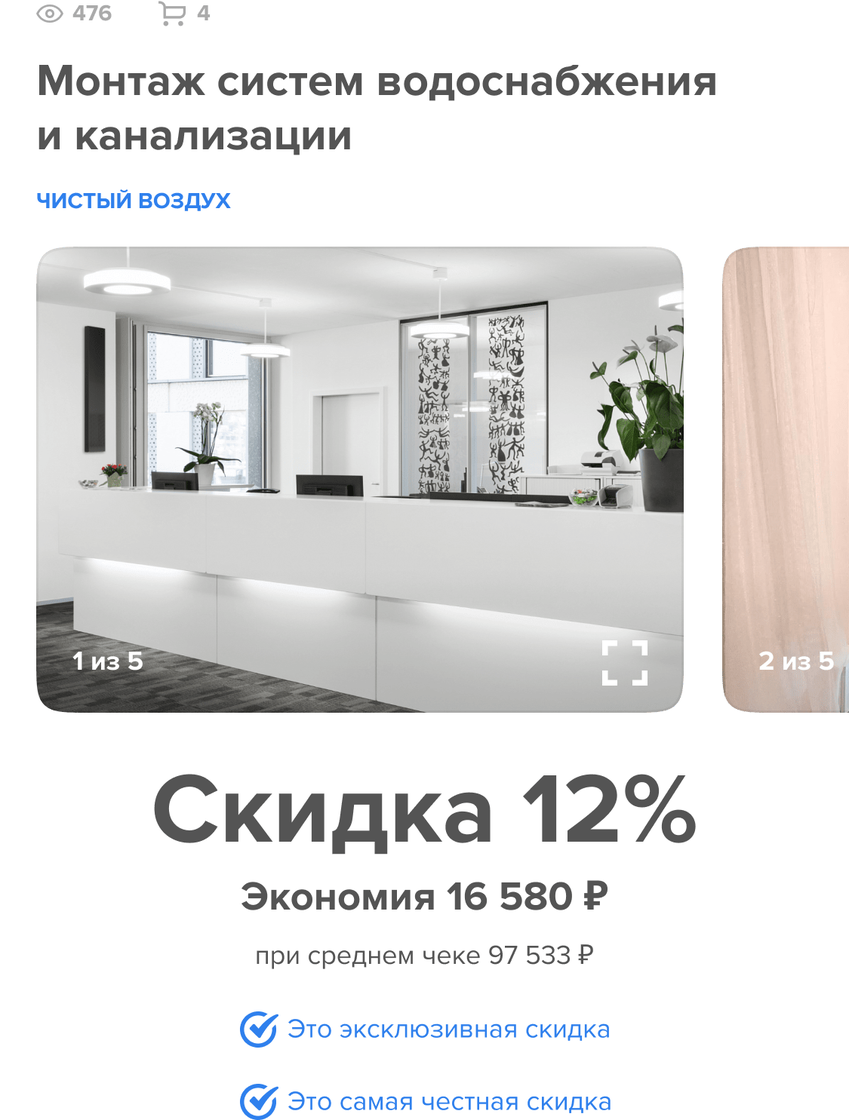
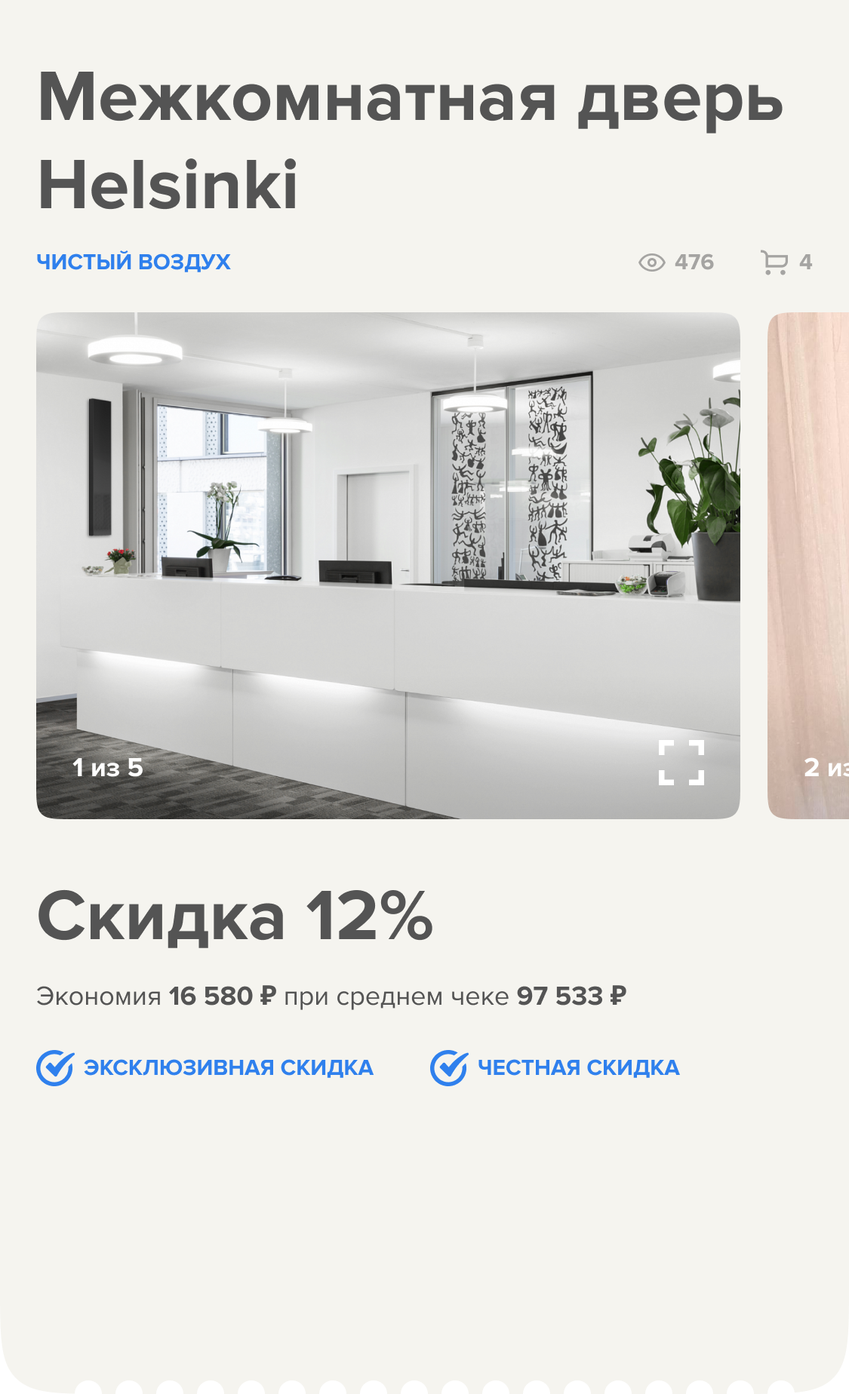
Изменил изображения

diff --git a/app/css/main.min.css b/app/css/main.min.css
@@ -1,1 +1,1 @@
-*,::after,::before{-webkit-box-sizing:border-box;box-sizing:border-box}html{font-family:sans-serif;line-height:1.15;-webkit-text-size-adjust:100%;-webkit-tap-highlight-color:transparent}article,aside,figcaption,figure,footer,header,hgroup,main,nav,section{display:block}body{margin:0;font-family:-apple-system,BlinkMacSystemFont,"Segoe UI",Roboto,"Helvetica Neue",Arial,"Noto Sans","Liberation Sans",sans-serif,"Apple Color Emoji","Segoe UI Emoji","Segoe UI Symbol","Noto Color Emoji";font-size:1rem;font-weight:400;line-height:1.5;color:#212529;text-align:left;background-color:#fff}[tabindex="-1"]:focus:not(:focus-visible){outline:0!important}hr{-webkit-box-sizing:content-box;box-sizing:content-box;height:0;overflow:visible}h1,h2,h3,h4,h5,h6{margin-top:0;margin-bottom:.5rem}p{margin-top:0;margin-bottom:1rem}abbr[data-original-title],abbr[title]{text-decoration:underline;-webkit-text-decoration:underline dotted;text-decoration:underline dotted;cursor:help;border-bottom:0;-webkit-text-decoration-skip-ink:none;text-decoration-skip-ink:none}address{margin-bottom:1rem;font-style:normal;line-height:inherit}dl,ol,ul{margin-top:0;margin-bottom:1rem}ol ol,ol ul,ul ol,ul ul{margin-bottom:0}dt{font-weight:700}dd{margin-bottom:.5rem;margin-left:0}blockquote{margin:0 0 1rem}b,strong{font-weight:bolder}small{font-size:80%}sub,sup{position:relative;font-size:75%;line-height:0;vertical-align:baseline}sub{bottom:-.25em}sup{top:-.5em}a{color:#007bff;text-decoration:none;background-color:transparent}a:hover{color:#0056b3;text-decoration:underline}a:not([href]):not([class]){color:inherit;text-decoration:none}a:not([href]):not([class]):hover{color:inherit;text-decoration:none}code,kbd,pre,samp{font-family:SFMono-Regular,Menlo,Monaco,Consolas,"Liberation Mono","Courier New",monospace;font-size:1em}pre{margin-top:0;margin-bottom:1rem;overflow:auto;-ms-overflow-style:scrollbar}figure{margin:0 0 1rem}img{vertical-align:middle;border-style:none}svg{overflow:hidden;vertical-align:middle}table{border-collapse:collapse}caption{padding-top:.75rem;padding-bottom:.75rem;color:#6c757d;text-align:left;caption-side:bottom}th{text-align:inherit;text-align:-webkit-match-parent}label{display:inline-block;margin-bottom:.5rem}button{border-radius:0}button:focus:not(:focus-visible){outline:0}button,input,optgroup,select,textarea{margin:0;font-family:inherit;font-size:inherit;line-height:inherit}button,input{overflow:visible}button,select{text-transform:none}[role=button]{cursor:pointer}select{word-wrap:normal}[type=button],[type=reset],[type=submit],button{-webkit-appearance:button}[type=button]:not(:disabled),[type=reset]:not(:disabled),[type=submit]:not(:disabled),button:not(:disabled){cursor:pointer}[type=button]::-moz-focus-inner,[type=reset]::-moz-focus-inner,[type=submit]::-moz-focus-inner,button::-moz-focus-inner{padding:0;border-style:none}input[type=checkbox],input[type=radio]{-webkit-box-sizing:border-box;box-sizing:border-box;padding:0}textarea{overflow:auto;resize:vertical}fieldset{min-width:0;padding:0;margin:0;border:0}legend{display:block;width:100%;max-width:100%;padding:0;margin-bottom:.5rem;font-size:1.5rem;line-height:inherit;color:inherit;white-space:normal}progress{vertical-align:baseline}[type=number]::-webkit-inner-spin-button,[type=number]::-webkit-outer-spin-button{height:auto}[type=search]{outline-offset:-2px;-webkit-appearance:none}[type=search]::-webkit-search-decoration{-webkit-appearance:none}::-webkit-file-upload-button{font:inherit;-webkit-appearance:button}output{display:inline-block}summary{display:list-item;cursor:pointer}template{display:none}[hidden]{display:none!important}@font-face{font-family:roboto-oh5;font-style:normal;font-weight:400;src:url(../fonts/roboto-regular-webfont.woff2) format("woff2")}@font-face{font-family:roboto-oh5;font-style:italic;font-weight:400;src:url(../fonts/roboto-italic-webfont.woff2) format("woff2")}@font-face{font-family:roboto-oh5;font-style:normal;font-weight:700;src:url(../fonts/roboto-bold-webfont.woff2) format("woff2")}@font-face{font-family:roboto-oh5;font-style:italic;font-weight:700;src:url(../fonts/roboto-bolditalic-webfont.woff2) format("woff2")}::-webkit-input-placeholder{color:#666}::-moz-placeholder{color:#666}:-ms-input-placeholder{color:#666}::-ms-input-placeholder{color:#666}::placeholder{color:#666}::-moz-selection{background-color:orange;color:#fff}::selection{background-color:orange;color:#fff}input,textarea{outline:0}input:focus:required:invalid,textarea:focus:required:invalid{border-color:red}input:required:valid,textarea:required:valid{border-color:green}body{font-family:roboto-oh5,sans-serif;font-size:16px;line-height:1.65;color:#333;min-width:320px;position:relative;overflow-x:hidden}body,html{padding:0;margin:0!important}body{width:375px;position:relative;overflow-x:hidden}.header{width:375px;height:52px;position:-webkit-sticky;position:sticky;top:0;left:0;background-size:contain;background-position:center;background-color:#393939;background-image:url(../images/header.png);background-repeat:no-repeat;-webkit-transition:-webkit-transform .3s ease;transition:-webkit-transform .3s ease;-o-transition:transform .3s ease;transition:transform .3s ease;transition:transform .3s ease,-webkit-transform .3s ease}.header.out{-webkit-transform:translateY(-100%);-ms-transform:translateY(-100%);transform:translateY(-100%)}.bg{margin-top:20px;width:375px;background-position:center;height:495px;background-repeat:no-repeat;background-size:contain;background-image:url(../images/bg.png)}.order{width:312px;height:68px;background-position:center;background-size:contain;background-repeat:no-repeat;margin:0 auto;margin-top:26px;background-image:url(../images/order.png)}.bottom-elem{background-image:url(../images/bottom-elem.png);width:375px;height:48px;cursor:pointer;background-size:contain;position:fixed;bottom:0;background-repeat:no-repeat;-webkit-transform:translateY(100%);-ms-transform:translateY(100%);transform:translateY(100%);-webkit-transition:-webkit-transform .3s ease;transition:-webkit-transform .3s ease;-o-transition:transform .3s ease;transition:transform .3s ease;transition:transform .3s ease,-webkit-transform .3s ease}.bottom-elem.show{-webkit-box-shadow:0 0 10px rgba(0,0,0,.2);box-shadow:0 0 10px rgba(0,0,0,.2);-webkit-transform:translateY(0);-ms-transform:translateY(0);transform:translateY(0)}.page{width:320px;height:1800px;margin:0 auto;margin-top:56px;background-image:url(../images/page.png)}
+*,::after,::before{-webkit-box-sizing:border-box;box-sizing:border-box}html{font-family:sans-serif;line-height:1.15;-webkit-text-size-adjust:100%;-webkit-tap-highlight-color:transparent}article,aside,figcaption,figure,footer,header,hgroup,main,nav,section{display:block}body{margin:0;font-family:-apple-system,BlinkMacSystemFont,"Segoe UI",Roboto,"Helvetica Neue",Arial,"Noto Sans","Liberation Sans",sans-serif,"Apple Color Emoji","Segoe UI Emoji","Segoe UI Symbol","Noto Color Emoji";font-size:1rem;font-weight:400;line-height:1.5;color:#212529;text-align:left;background-color:#fff}[tabindex="-1"]:focus:not(:focus-visible){outline:0!important}hr{-webkit-box-sizing:content-box;box-sizing:content-box;height:0;overflow:visible}h1,h2,h3,h4,h5,h6{margin-top:0;margin-bottom:.5rem}p{margin-top:0;margin-bottom:1rem}abbr[data-original-title],abbr[title]{text-decoration:underline;-webkit-text-decoration:underline dotted;text-decoration:underline dotted;cursor:help;border-bottom:0;-webkit-text-decoration-skip-ink:none;text-decoration-skip-ink:none}address{margin-bottom:1rem;font-style:normal;line-height:inherit}dl,ol,ul{margin-top:0;margin-bottom:1rem}ol ol,ol ul,ul ol,ul ul{margin-bottom:0}dt{font-weight:700}dd{margin-bottom:.5rem;margin-left:0}blockquote{margin:0 0 1rem}b,strong{font-weight:bolder}small{font-size:80%}sub,sup{position:relative;font-size:75%;line-height:0;vertical-align:baseline}sub{bottom:-.25em}sup{top:-.5em}a{color:#007bff;text-decoration:none;background-color:transparent}a:hover{color:#0056b3;text-decoration:underline}a:not([href]):not([class]){color:inherit;text-decoration:none}a:not([href]):not([class]):hover{color:inherit;text-decoration:none}code,kbd,pre,samp{font-family:SFMono-Regular,Menlo,Monaco,Consolas,"Liberation Mono","Courier New",monospace;font-size:1em}pre{margin-top:0;margin-bottom:1rem;overflow:auto;-ms-overflow-style:scrollbar}figure{margin:0 0 1rem}img{vertical-align:middle;border-style:none}svg{overflow:hidden;vertical-align:middle}table{border-collapse:collapse}caption{padding-top:.75rem;padding-bottom:.75rem;color:#6c757d;text-align:left;caption-side:bottom}th{text-align:inherit;text-align:-webkit-match-parent}label{display:inline-block;margin-bottom:.5rem}button{border-radius:0}button:focus:not(:focus-visible){outline:0}button,input,optgroup,select,textarea{margin:0;font-family:inherit;font-size:inherit;line-height:inherit}button,input{overflow:visible}button,select{text-transform:none}[role=button]{cursor:pointer}select{word-wrap:normal}[type=button],[type=reset],[type=submit],button{-webkit-appearance:button}[type=button]:not(:disabled),[type=reset]:not(:disabled),[type=submit]:not(:disabled),button:not(:disabled){cursor:pointer}[type=button]::-moz-focus-inner,[type=reset]::-moz-focus-inner,[type=submit]::-moz-focus-inner,button::-moz-focus-inner{padding:0;border-style:none}input[type=checkbox],input[type=radio]{-webkit-box-sizing:border-box;box-sizing:border-box;padding:0}textarea{overflow:auto;resize:vertical}fieldset{min-width:0;padding:0;margin:0;border:0}legend{display:block;width:100%;max-width:100%;padding:0;margin-bottom:.5rem;font-size:1.5rem;line-height:inherit;color:inherit;white-space:normal}progress{vertical-align:baseline}[type=number]::-webkit-inner-spin-button,[type=number]::-webkit-outer-spin-button{height:auto}[type=search]{outline-offset:-2px;-webkit-appearance:none}[type=search]::-webkit-search-decoration{-webkit-appearance:none}::-webkit-file-upload-button{font:inherit;-webkit-appearance:button}output{display:inline-block}summary{display:list-item;cursor:pointer}template{display:none}[hidden]{display:none!important}@font-face{font-family:roboto-oh5;font-style:normal;font-weight:400;src:url(../fonts/roboto-regular-webfont.woff2) format("woff2")}@font-face{font-family:roboto-oh5;font-style:italic;font-weight:400;src:url(../fonts/roboto-italic-webfont.woff2) format("woff2")}@font-face{font-family:roboto-oh5;font-style:normal;font-weight:700;src:url(../fonts/roboto-bold-webfont.woff2) format("woff2")}@font-face{font-family:roboto-oh5;font-style:italic;font-weight:700;src:url(../fonts/roboto-bolditalic-webfont.woff2) format("woff2")}::-webkit-input-placeholder{color:#666}::-moz-placeholder{color:#666}:-ms-input-placeholder{color:#666}::-ms-input-placeholder{color:#666}::placeholder{color:#666}::-moz-selection{background-color:orange;color:#fff}::selection{background-color:orange;color:#fff}input,textarea{outline:0}input:focus:required:invalid,textarea:focus:required:invalid{border-color:red}input:required:valid,textarea:required:valid{border-color:green}body{font-family:roboto-oh5,sans-serif;font-size:16px;line-height:1.65;color:#333;min-width:320px;position:relative;overflow-x:hidden}body,html{padding:0;margin:0!important}body{width:375px;position:relative;overflow-x:hidden}.header{width:375px;height:52px;position:-webkit-sticky;position:sticky;top:0;z-index:10;left:0;background-size:contain;background-position:center;background-color:#393939;background-image:url(../images/header.png);background-repeat:no-repeat;-webkit-transition:-webkit-transform .3s ease;transition:-webkit-transform .3s ease;-o-transition:transform .3s ease;transition:transform .3s ease;transition:transform .3s ease,-webkit-transform .3s ease}.header.out{-webkit-transform:translateY(-100%);-ms-transform:translateY(-100%);transform:translateY(-100%)}.bg{width:375px;background-position:center;height:616px;background-repeat:no-repeat;background-size:contain;background-image:url(../images/bg.png)}.order{width:375px;height:56px;background-position:center;background-size:contain;position:absolute;top:564px;background-repeat:no-repeat;margin:0 auto;background-image:url(../images/order.png)}.bottom-elem{background-image:url(../images/bottom-elem.png);width:375px;height:144px;cursor:pointer;background-size:contain;position:fixed;z-index:10;bottom:0;background-repeat:no-repeat;-webkit-transform:translateY(100%);-ms-transform:translateY(100%);transform:translateY(100%);-webkit-transition:-webkit-transform .3s ease;transition:-webkit-transform .3s ease;-o-transition:transform .3s ease;transition:transform .3s ease;transition:transform .3s ease,-webkit-transform .3s ease}.bottom-elem.show{-webkit-box-shadow:0 0 10px rgba(0,0,0,.2);box-shadow:0 0 10px rgba(0,0,0,.2);-webkit-transform:translateY(0);-ms-transform:translateY(0);transform:translateY(0)}.page{width:343px;height:1550px;margin:0 auto;margin-top:32px;background-image:url(../images/page.png)}

diff --git a/dist/css/main.min.css b/dist/css/main.min.css
@@ -1,1 +1,1 @@
-*,::after,::before{-webkit-box-sizing:border-box;box-sizing:border-box}html{font-family:sans-serif;line-height:1.15;-webkit-text-size-adjust:100%;-webkit-tap-highlight-color:transparent}article,aside,figcaption,figure,footer,header,hgroup,main,nav,section{display:block}body{margin:0;font-family:-apple-system,BlinkMacSystemFont,"Segoe UI",Roboto,"Helvetica Neue",Arial,"Noto Sans","Liberation Sans",sans-serif,"Apple Color Emoji","Segoe UI Emoji","Segoe UI Symbol","Noto Color Emoji";font-size:1rem;font-weight:400;line-height:1.5;color:#212529;text-align:left;background-color:#fff}[tabindex="-1"]:focus:not(:focus-visible){outline:0!important}hr{-webkit-box-sizing:content-box;box-sizing:content-box;height:0;overflow:visible}h1,h2,h3,h4,h5,h6{margin-top:0;margin-bottom:.5rem}p{margin-top:0;margin-bottom:1rem}abbr[data-original-title],abbr[title]{text-decoration:underline;-webkit-text-decoration:underline dotted;text-decoration:underline dotted;cursor:help;border-bottom:0;-webkit-text-decoration-skip-ink:none;text-decoration-skip-ink:none}address{margin-bottom:1rem;font-style:normal;line-height:inherit}dl,ol,ul{margin-top:0;margin-bottom:1rem}ol ol,ol ul,ul ol,ul ul{margin-bottom:0}dt{font-weight:700}dd{margin-bottom:.5rem;margin-left:0}blockquote{margin:0 0 1rem}b,strong{font-weight:bolder}small{font-size:80%}sub,sup{position:relative;font-size:75%;line-height:0;vertical-align:baseline}sub{bottom:-.25em}sup{top:-.5em}a{color:#007bff;text-decoration:none;background-color:transparent}a:hover{color:#0056b3;text-decoration:underline}a:not([href]):not([class]){color:inherit;text-decoration:none}a:not([href]):not([class]):hover{color:inherit;text-decoration:none}code,kbd,pre,samp{font-family:SFMono-Regular,Menlo,Monaco,Consolas,"Liberation Mono","Courier New",monospace;font-size:1em}pre{margin-top:0;margin-bottom:1rem;overflow:auto;-ms-overflow-style:scrollbar}figure{margin:0 0 1rem}img{vertical-align:middle;border-style:none}svg{overflow:hidden;vertical-align:middle}table{border-collapse:collapse}caption{padding-top:.75rem;padding-bottom:.75rem;color:#6c757d;text-align:left;caption-side:bottom}th{text-align:inherit;text-align:-webkit-match-parent}label{display:inline-block;margin-bottom:.5rem}button{border-radius:0}button:focus:not(:focus-visible){outline:0}button,input,optgroup,select,textarea{margin:0;font-family:inherit;font-size:inherit;line-height:inherit}button,input{overflow:visible}button,select{text-transform:none}[role=button]{cursor:pointer}select{word-wrap:normal}[type=button],[type=reset],[type=submit],button{-webkit-appearance:button}[type=button]:not(:disabled),[type=reset]:not(:disabled),[type=submit]:not(:disabled),button:not(:disabled){cursor:pointer}[type=button]::-moz-focus-inner,[type=reset]::-moz-focus-inner,[type=submit]::-moz-focus-inner,button::-moz-focus-inner{padding:0;border-style:none}input[type=checkbox],input[type=radio]{-webkit-box-sizing:border-box;box-sizing:border-box;padding:0}textarea{overflow:auto;resize:vertical}fieldset{min-width:0;padding:0;margin:0;border:0}legend{display:block;width:100%;max-width:100%;padding:0;margin-bottom:.5rem;font-size:1.5rem;line-height:inherit;color:inherit;white-space:normal}progress{vertical-align:baseline}[type=number]::-webkit-inner-spin-button,[type=number]::-webkit-outer-spin-button{height:auto}[type=search]{outline-offset:-2px;-webkit-appearance:none}[type=search]::-webkit-search-decoration{-webkit-appearance:none}::-webkit-file-upload-button{font:inherit;-webkit-appearance:button}output{display:inline-block}summary{display:list-item;cursor:pointer}template{display:none}[hidden]{display:none!important}@font-face{font-family:roboto-oh5;font-style:normal;font-weight:400;src:url(../fonts/roboto-regular-webfont.woff2) format("woff2")}@font-face{font-family:roboto-oh5;font-style:italic;font-weight:400;src:url(../fonts/roboto-italic-webfont.woff2) format("woff2")}@font-face{font-family:roboto-oh5;font-style:normal;font-weight:700;src:url(../fonts/roboto-bold-webfont.woff2) format("woff2")}@font-face{font-family:roboto-oh5;font-style:italic;font-weight:700;src:url(../fonts/roboto-bolditalic-webfont.woff2) format("woff2")}::-webkit-input-placeholder{color:#666}::-moz-placeholder{color:#666}:-ms-input-placeholder{color:#666}::-ms-input-placeholder{color:#666}::placeholder{color:#666}::-moz-selection{background-color:orange;color:#fff}::selection{background-color:orange;color:#fff}input,textarea{outline:0}input:focus:required:invalid,textarea:focus:required:invalid{border-color:red}input:required:valid,textarea:required:valid{border-color:green}body{font-family:roboto-oh5,sans-serif;font-size:16px;line-height:1.65;color:#333;min-width:320px;position:relative;overflow-x:hidden}body,html{padding:0;margin:0!important}body{width:375px;position:relative;overflow-x:hidden}.header{width:375px;height:52px;position:-webkit-sticky;position:sticky;top:0;left:0;background-size:contain;background-position:center;background-color:#393939;background-image:url(../images/header.png);background-repeat:no-repeat;-webkit-transition:-webkit-transform .3s ease;transition:-webkit-transform .3s ease;-o-transition:transform .3s ease;transition:transform .3s ease;transition:transform .3s ease,-webkit-transform .3s ease}.header.out{-webkit-transform:translateY(-100%);-ms-transform:translateY(-100%);transform:translateY(-100%)}.bg{margin-top:20px;width:375px;background-position:center;height:495px;background-repeat:no-repeat;background-size:contain;background-image:url(../images/bg.png)}.order{width:312px;height:68px;background-position:center;background-size:contain;background-repeat:no-repeat;margin:0 auto;margin-top:26px;background-image:url(../images/order.png)}.bottom-elem{background-image:url(../images/bottom-elem.png);width:375px;height:48px;cursor:pointer;background-size:contain;position:fixed;bottom:0;background-repeat:no-repeat;-webkit-transform:translateY(100%);-ms-transform:translateY(100%);transform:translateY(100%);-webkit-transition:-webkit-transform .3s ease;transition:-webkit-transform .3s ease;-o-transition:transform .3s ease;transition:transform .3s ease;transition:transform .3s ease,-webkit-transform .3s ease}.bottom-elem.show{-webkit-box-shadow:0 0 10px rgba(0,0,0,.2);box-shadow:0 0 10px rgba(0,0,0,.2);-webkit-transform:translateY(0);-ms-transform:translateY(0);transform:translateY(0)}.page{width:320px;height:1800px;margin:0 auto;margin-top:56px;background-image:url(../images/page.png)}
+*,::after,::before{-webkit-box-sizing:border-box;box-sizing:border-box}html{font-family:sans-serif;line-height:1.15;-webkit-text-size-adjust:100%;-webkit-tap-highlight-color:transparent}article,aside,figcaption,figure,footer,header,hgroup,main,nav,section{display:block}body{margin:0;font-family:-apple-system,BlinkMacSystemFont,"Segoe UI",Roboto,"Helvetica Neue",Arial,"Noto Sans","Liberation Sans",sans-serif,"Apple Color Emoji","Segoe UI Emoji","Segoe UI Symbol","Noto Color Emoji";font-size:1rem;font-weight:400;line-height:1.5;color:#212529;text-align:left;background-color:#fff}[tabindex="-1"]:focus:not(:focus-visible){outline:0!important}hr{-webkit-box-sizing:content-box;box-sizing:content-box;height:0;overflow:visible}h1,h2,h3,h4,h5,h6{margin-top:0;margin-bottom:.5rem}p{margin-top:0;margin-bottom:1rem}abbr[data-original-title],abbr[title]{text-decoration:underline;-webkit-text-decoration:underline dotted;text-decoration:underline dotted;cursor:help;border-bottom:0;-webkit-text-decoration-skip-ink:none;text-decoration-skip-ink:none}address{margin-bottom:1rem;font-style:normal;line-height:inherit}dl,ol,ul{margin-top:0;margin-bottom:1rem}ol ol,ol ul,ul ol,ul ul{margin-bottom:0}dt{font-weight:700}dd{margin-bottom:.5rem;margin-left:0}blockquote{margin:0 0 1rem}b,strong{font-weight:bolder}small{font-size:80%}sub,sup{position:relative;font-size:75%;line-height:0;vertical-align:baseline}sub{bottom:-.25em}sup{top:-.5em}a{color:#007bff;text-decoration:none;background-color:transparent}a:hover{color:#0056b3;text-decoration:underline}a:not([href]):not([class]){color:inherit;text-decoration:none}a:not([href]):not([class]):hover{color:inherit;text-decoration:none}code,kbd,pre,samp{font-family:SFMono-Regular,Menlo,Monaco,Consolas,"Liberation Mono","Courier New",monospace;font-size:1em}pre{margin-top:0;margin-bottom:1rem;overflow:auto;-ms-overflow-style:scrollbar}figure{margin:0 0 1rem}img{vertical-align:middle;border-style:none}svg{overflow:hidden;vertical-align:middle}table{border-collapse:collapse}caption{padding-top:.75rem;padding-bottom:.75rem;color:#6c757d;text-align:left;caption-side:bottom}th{text-align:inherit;text-align:-webkit-match-parent}label{display:inline-block;margin-bottom:.5rem}button{border-radius:0}button:focus:not(:focus-visible){outline:0}button,input,optgroup,select,textarea{margin:0;font-family:inherit;font-size:inherit;line-height:inherit}button,input{overflow:visible}button,select{text-transform:none}[role=button]{cursor:pointer}select{word-wrap:normal}[type=button],[type=reset],[type=submit],button{-webkit-appearance:button}[type=button]:not(:disabled),[type=reset]:not(:disabled),[type=submit]:not(:disabled),button:not(:disabled){cursor:pointer}[type=button]::-moz-focus-inner,[type=reset]::-moz-focus-inner,[type=submit]::-moz-focus-inner,button::-moz-focus-inner{padding:0;border-style:none}input[type=checkbox],input[type=radio]{-webkit-box-sizing:border-box;box-sizing:border-box;padding:0}textarea{overflow:auto;resize:vertical}fieldset{min-width:0;padding:0;margin:0;border:0}legend{display:block;width:100%;max-width:100%;padding:0;margin-bottom:.5rem;font-size:1.5rem;line-height:inherit;color:inherit;white-space:normal}progress{vertical-align:baseline}[type=number]::-webkit-inner-spin-button,[type=number]::-webkit-outer-spin-button{height:auto}[type=search]{outline-offset:-2px;-webkit-appearance:none}[type=search]::-webkit-search-decoration{-webkit-appearance:none}::-webkit-file-upload-button{font:inherit;-webkit-appearance:button}output{display:inline-block}summary{display:list-item;cursor:pointer}template{display:none}[hidden]{display:none!important}@font-face{font-family:roboto-oh5;font-style:normal;font-weight:400;src:url(../fonts/roboto-regular-webfont.woff2) format("woff2")}@font-face{font-family:roboto-oh5;font-style:italic;font-weight:400;src:url(../fonts/roboto-italic-webfont.woff2) format("woff2")}@font-face{font-family:roboto-oh5;font-style:normal;font-weight:700;src:url(../fonts/roboto-bold-webfont.woff2) format("woff2")}@font-face{font-family:roboto-oh5;font-style:italic;font-weight:700;src:url(../fonts/roboto-bolditalic-webfont.woff2) format("woff2")}::-webkit-input-placeholder{color:#666}::-moz-placeholder{color:#666}:-ms-input-placeholder{color:#666}::-ms-input-placeholder{color:#666}::placeholder{color:#666}::-moz-selection{background-color:orange;color:#fff}::selection{background-color:orange;color:#fff}input,textarea{outline:0}input:focus:required:invalid,textarea:focus:required:invalid{border-color:red}input:required:valid,textarea:required:valid{border-color:green}body{font-family:roboto-oh5,sans-serif;font-size:16px;line-height:1.65;color:#333;min-width:320px;position:relative;overflow-x:hidden}body,html{padding:0;margin:0!important}body{width:375px;position:relative;overflow-x:hidden}.header{width:375px;height:52px;position:-webkit-sticky;position:sticky;top:0;z-index:10;left:0;background-size:contain;background-position:center;background-color:#393939;background-image:url(../images/header.png);background-repeat:no-repeat;-webkit-transition:-webkit-transform .3s ease;transition:-webkit-transform .3s ease;-o-transition:transform .3s ease;transition:transform .3s ease;transition:transform .3s ease,-webkit-transform .3s ease}.header.out{-webkit-transform:translateY(-100%);-ms-transform:translateY(-100%);transform:translateY(-100%)}.bg{width:375px;background-position:center;height:616px;background-repeat:no-repeat;background-size:contain;background-image:url(../images/bg.png)}.order{width:375px;height:56px;background-position:center;background-size:contain;position:absolute;top:564px;background-repeat:no-repeat;margin:0 auto;background-image:url(../images/order.png)}.bottom-elem{background-image:url(../images/bottom-elem.png);width:375px;height:144px;cursor:pointer;background-size:contain;position:fixed;z-index:10;bottom:0;background-repeat:no-repeat;-webkit-transform:translateY(100%);-ms-transform:translateY(100%);transform:translateY(100%);-webkit-transition:-webkit-transform .3s ease;transition:-webkit-transform .3s ease;-o-transition:transform .3s ease;transition:transform .3s ease;transition:transform .3s ease,-webkit-transform .3s ease}.bottom-elem.show{-webkit-box-shadow:0 0 10px rgba(0,0,0,.2);box-shadow:0 0 10px rgba(0,0,0,.2);-webkit-transform:translateY(0);-ms-transform:translateY(0);transform:translateY(0)}.page{width:343px;height:1550px;margin:0 auto;margin-top:32px;background-image:url(../images/page.png)}

diff --git a/app/js/app.min.js b/app/js/app.min.js
@@ -1,1 +1,1 @@
-!function(e){var t={};function n(o){if(t[o])return t[o].exports;var r=t[o]={i:o,l:!1,exports:{}};return e[o].call(r.exports,r,r.exports,n),r.l=!0,r.exports}n.m=e,n.c=t,n.d=function(e,t,o){n.o(e,t)||Object.defineProperty(e,t,{enumerable:!0,get:o})},n.r=function(e){"undefined"!=typeof Symbol&&Symbol.toStringTag&&Object.defineProperty(e,Symbol.toStringTag,{value:"Module"}),Object.defineProperty(e,"__esModule",{value:!0})},n.t=function(e,t){if(1&t&&(e=n(e)),8&t)return e;if(4&t&&"object"==typeof e&&e&&e.__esModule)return e;var o=Object.create(null);if(n.r(o),Object.defineProperty(o,"default",{enumerable:!0,value:e}),2&t&&"string"!=typeof e)for(var r in e)n.d(o,r,function(t){return e[t]}.bind(null,r));return o},n.n=function(e){var t=e&&e.__esModule?function(){return e.default}:function(){return e};return n.d(t,"a",t),t},n.o=function(e,t){return Object.prototype.hasOwnProperty.call(e,t)},n.p="",n(n.s=0)}([function(e,t){document.addEventListener("DOMContentLoaded",(function(){var e=document.getElementById("header"),t=0,n=document.getElementById("bottom-elem");window.addEventListener("scroll",(function(){var o=window.pageYOffset;o>62?(e.classList.add("h-fixed"),o>62&&o>t?e.classList.add("out"):e.classList.remove("out"),t=o):0==o&&e.classList.remove("h-fixed"),o<62&&(e.classList.remove("out"),e.classList.remove("h-fixed")),o>636?n.classList.add("show"):n.classList.remove("show")}))}))}]);
+!function(e){var t={};function n(o){if(t[o])return t[o].exports;var r=t[o]={i:o,l:!1,exports:{}};return e[o].call(r.exports,r,r.exports,n),r.l=!0,r.exports}n.m=e,n.c=t,n.d=function(e,t,o){n.o(e,t)||Object.defineProperty(e,t,{enumerable:!0,get:o})},n.r=function(e){"undefined"!=typeof Symbol&&Symbol.toStringTag&&Object.defineProperty(e,Symbol.toStringTag,{value:"Module"}),Object.defineProperty(e,"__esModule",{value:!0})},n.t=function(e,t){if(1&t&&(e=n(e)),8&t)return e;if(4&t&&"object"==typeof e&&e&&e.__esModule)return e;var o=Object.create(null);if(n.r(o),Object.defineProperty(o,"default",{enumerable:!0,value:e}),2&t&&"string"!=typeof e)for(var r in e)n.d(o,r,function(t){return e[t]}.bind(null,r));return o},n.n=function(e){var t=e&&e.__esModule?function(){return e.default}:function(){return e};return n.d(t,"a",t),t},n.o=function(e,t){return Object.prototype.hasOwnProperty.call(e,t)},n.p="",n(n.s=0)}([function(e,t){document.addEventListener("DOMContentLoaded",(function(){var e=document.getElementById("header"),t=0,n=document.getElementById("bottom-elem");window.addEventListener("scroll",(function(){var o=window.pageYOffset;o>62?(e.classList.add("h-fixed"),o>62&&o>t?e.classList.add("out"):e.classList.remove("out"),t=o):0==o&&e.classList.remove("h-fixed"),o<62&&(e.classList.remove("out"),e.classList.remove("h-fixed")),o>620?n.classList.add("show"):n.classList.remove("show")}))}))}]);

diff --git a/dist/js/app.min.js b/dist/js/app.min.js
@@ -1,1 +1,1 @@
-!function(e){var t={};function n(o){if(t[o])return t[o].exports;var r=t[o]={i:o,l:!1,exports:{}};return e[o].call(r.exports,r,r.exports,n),r.l=!0,r.exports}n.m=e,n.c=t,n.d=function(e,t,o){n.o(e,t)||Object.defineProperty(e,t,{enumerable:!0,get:o})},n.r=function(e){"undefined"!=typeof Symbol&&Symbol.toStringTag&&Object.defineProperty(e,Symbol.toStringTag,{value:"Module"}),Object.defineProperty(e,"__esModule",{value:!0})},n.t=function(e,t){if(1&t&&(e=n(e)),8&t)return e;if(4&t&&"object"==typeof e&&e&&e.__esModule)return e;var o=Object.create(null);if(n.r(o),Object.defineProperty(o,"default",{enumerable:!0,value:e}),2&t&&"string"!=typeof e)for(var r in e)n.d(o,r,function(t){return e[t]}.bind(null,r));return o},n.n=function(e){var t=e&&e.__esModule?function(){return e.default}:function(){return e};return n.d(t,"a",t),t},n.o=function(e,t){return Object.prototype.hasOwnProperty.call(e,t)},n.p="",n(n.s=0)}([function(e,t){document.addEventListener("DOMContentLoaded",(function(){var e=document.getElementById("header"),t=0,n=document.getElementById("bottom-elem");window.addEventListener("scroll",(function(){var o=window.pageYOffset;o>62?(e.classList.add("h-fixed"),o>62&&o>t?e.classList.add("out"):e.classList.remove("out"),t=o):0==o&&e.classList.remove("h-fixed"),o<62&&(e.classList.remove("out"),e.classList.remove("h-fixed")),o>636?n.classList.add("show"):n.classList.remove("show")}))}))}]);
+!function(e){var t={};function n(o){if(t[o])return t[o].exports;var r=t[o]={i:o,l:!1,exports:{}};return e[o].call(r.exports,r,r.exports,n),r.l=!0,r.exports}n.m=e,n.c=t,n.d=function(e,t,o){n.o(e,t)||Object.defineProperty(e,t,{enumerable:!0,get:o})},n.r=function(e){"undefined"!=typeof Symbol&&Symbol.toStringTag&&Object.defineProperty(e,Symbol.toStringTag,{value:"Module"}),Object.defineProperty(e,"__esModule",{value:!0})},n.t=function(e,t){if(1&t&&(e=n(e)),8&t)return e;if(4&t&&"object"==typeof e&&e&&e.__esModule)return e;var o=Object.create(null);if(n.r(o),Object.defineProperty(o,"default",{enumerable:!0,value:e}),2&t&&"string"!=typeof e)for(var r in e)n.d(o,r,function(t){return e[t]}.bind(null,r));return o},n.n=function(e){var t=e&&e.__esModule?function(){return e.default}:function(){return e};return n.d(t,"a",t),t},n.o=function(e,t){return Object.prototype.hasOwnProperty.call(e,t)},n.p="",n(n.s=0)}([function(e,t){document.addEventListener("DOMContentLoaded",(function(){var e=document.getElementById("header"),t=0,n=document.getElementById("bottom-elem");window.addEventListener("scroll",(function(){var o=window.pageYOffset;o>62?(e.classList.add("h-fixed"),o>62&&o>t?e.classList.add("out"):e.classList.remove("out"),t=o):0==o&&e.classList.remove("h-fixed"),o<62&&(e.classList.remove("out"),e.classList.remove("h-fixed")),o>620?n.classList.add("show"):n.classList.remove("show")}))}))}]);

diff --git a/app/styles/sass/main.sass b/app/styles/sass/main.sass
@@ -14,6 +14,7 @@ body
     height: 52px
     position: sticky
     top: 0
+    z-index: 10
     left: 0
     background-size: contain
     background-position: center
@@ -24,29 +25,30 @@ body
     &.out
         transform: translateY(-100%)
 .bg
-    margin-top: 20px
     width: 375px
     background-position: center
-    height: 495px
+    height: 616px
     background-repeat: no-repeat
     background-size: contain
     background-image: url(../images/bg.png)
 .order
-    width: 312px
-    height: 68px
+    width: 375px
+    height: 56px
     background-position: center
     background-size: contain
+    position: absolute
+    top: 564px
     background-repeat: no-repeat
     margin: 0 auto
-    margin-top: 26px
     background-image: url(../images/order.png)
 .bottom-elem
     background-image: url(../images/bottom-elem.png)
     width: 375px
-    height: 48px
+    height: 144px
     cursor: pointer
     background-size: contain
     position: fixed
+    z-index: 10
     bottom: 0
     background-repeat: no-repeat
     transform: translateY(100%)
@@ -55,8 +57,8 @@ body
         box-shadow: 0 0 10px rgba(0,0,0,0.2)
         transform: translateY(0)
 .page
-    width: 320px
-    height: 1800px
+    width: 343px
+    height: 1550px
     margin: 0 auto
-    margin-top: 56px
+    margin-top: 32px
     background-image: url(../images/page.png)

diff --git a/app/js/app.js b/app/js/app.js
@@ -31,7 +31,7 @@ document.addEventListener('DOMContentLoaded', () => {
           header.classList.remove('h-fixed');
         }
 
-        if(scrolled > 636){
+        if(scrolled > 620){
             fixedButton.classList.add('show');
         }else{
             fixedButton.classList.remove('show');
